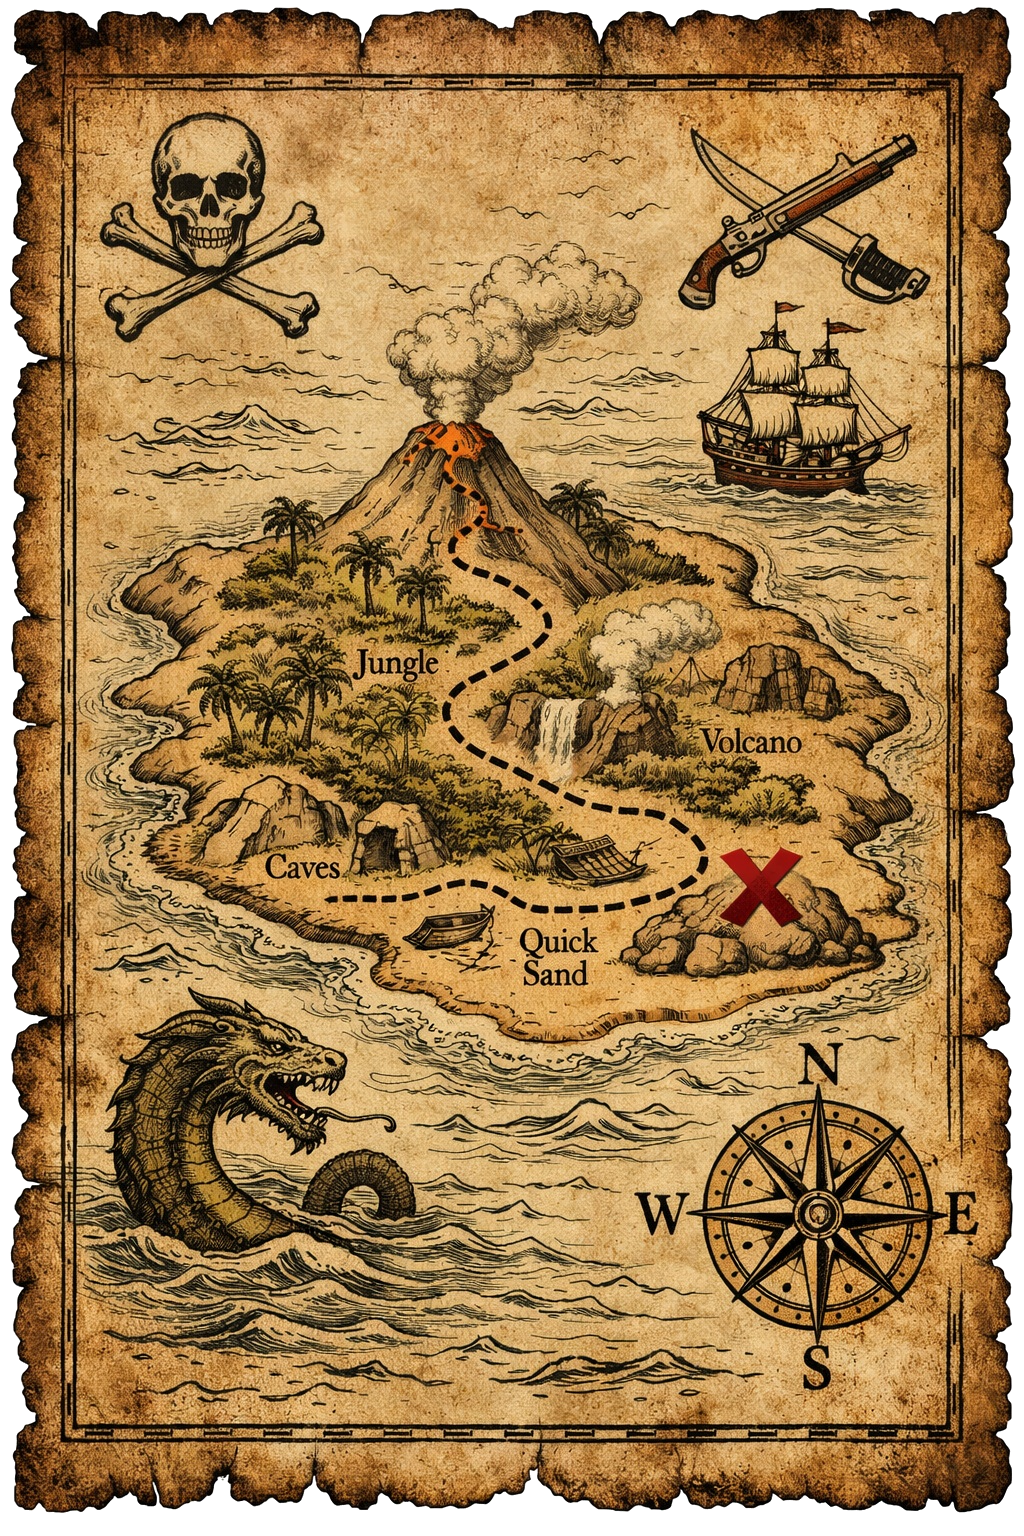
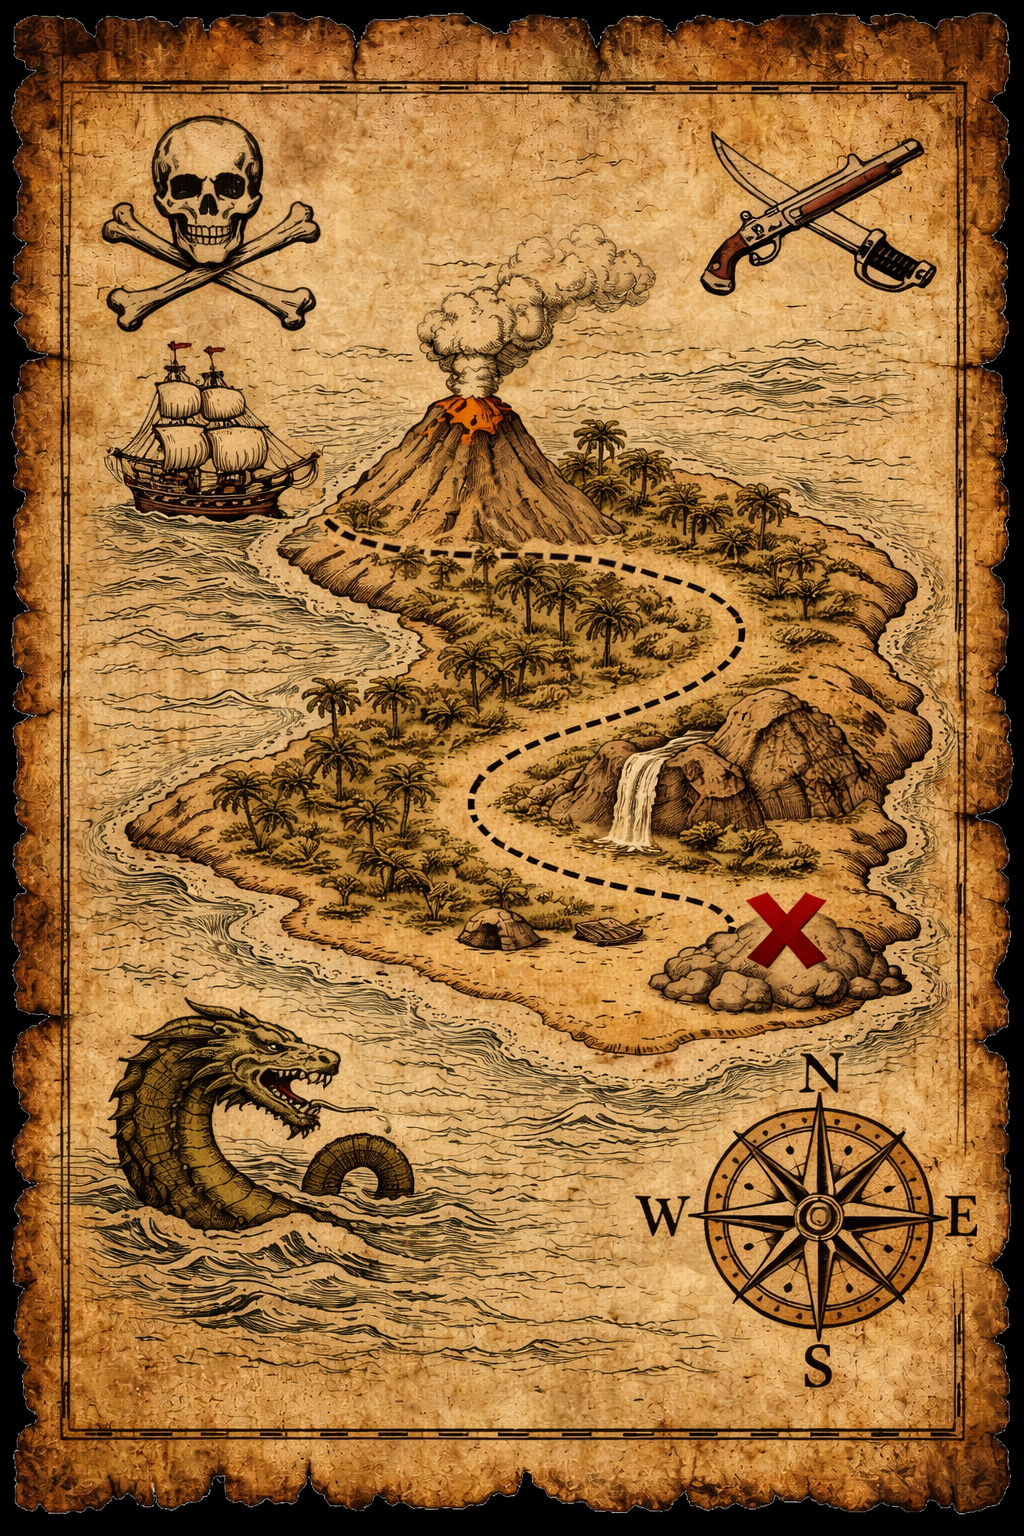
Add files via upload

diff --git a/R_Wisdom_is_a_Buried_Treasure.html b/R_Wisdom_is_a_Buried_Treasure.html
@@ -52,8 +52,8 @@ body {
 
 /* hotspot position control */
 :root {
-    --hotspot-x: 75%;
-    --hotspot-y: 58%;
+    --hotspot-x: 77%;
+    --hotspot-y: 61%;
 }
 
 /* X MARK */